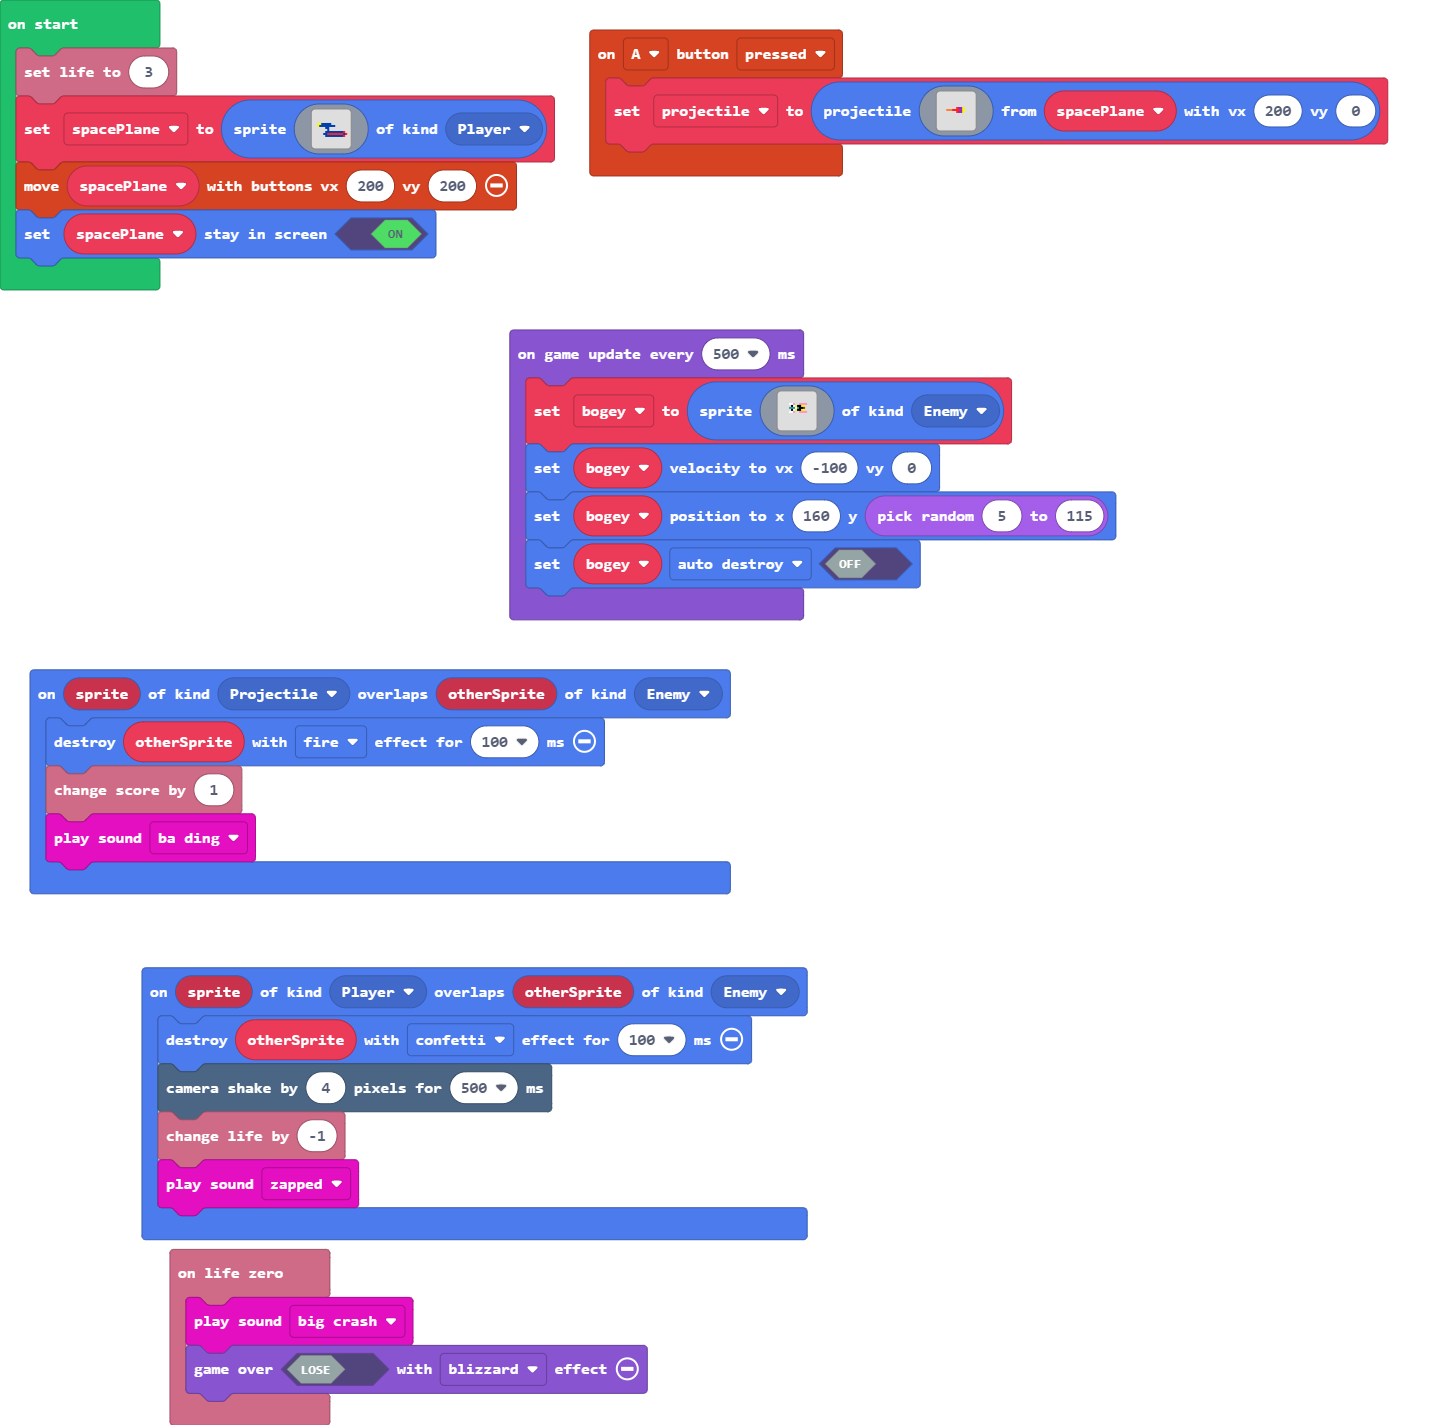
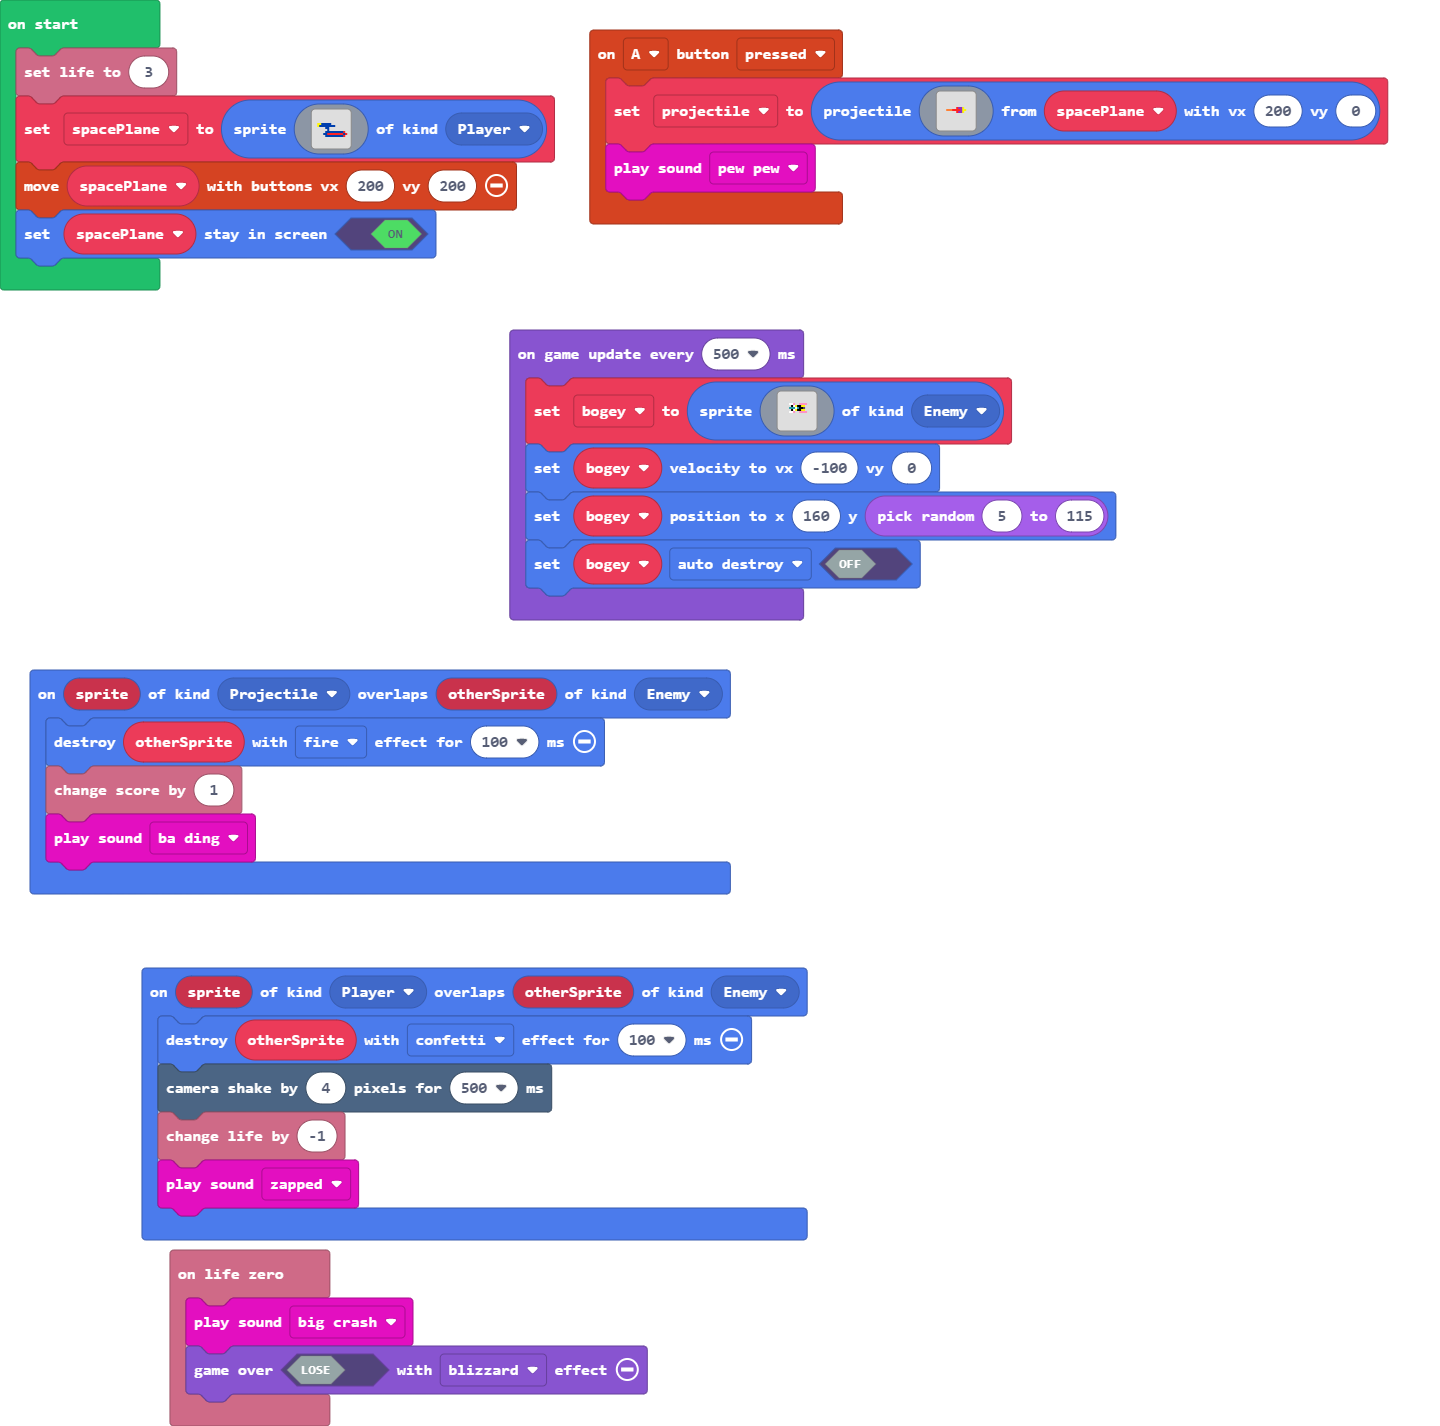
added pew pew

diff --git a/images.g.ts b/images.g.ts
@@ -937,6 +937,60 @@ namespace myImages {
 . . . . . . . . . . . . . . . . 
 . . . . . . . . . . . . . . . . 
 `;
+            case "image34":return img`
+. . . . . . . . . . . . . . . . 
+. . . . . . . . . . . . . . . . 
+. . . . . . . . . . . . . . . . 
+. . . . . . . . . . . . . . . . 
+. . . . 1 1 3 . . 3 3 3 3 . . . 
+. . . . . f 1 5 f f 5 5 . . . . 
+. . . . 6 6 6 1 6 f f c . . . . 
+. . . . . f 1 5 f f 5 5 . . . . 
+. . . . 1 1 3 . . 3 3 3 3 . . . 
+. . . . . . . . . . . . . . . . 
+. . . . . . . . . . . . . . . . 
+. . . . . . . . . . . . . . . . 
+. . . . . . . . . . . . . . . . 
+. . . . . . . . . . . . . . . . 
+. . . . . . . . . . . . . . . . 
+. . . . . . . . . . . . . . . . 
+`;
+            case "image35":return img`
+. . . . . . . . . . . . . . . . 
+. . . . . . . . . . . . . . . . 
+. . . . . . . . . . . . . . . . 
+. . . . . . . . . . . . . . . . 
+. . . . . . . . . . . . . . . . 
+. 5 5 8 8 8 8 8 . . . . . . . . 
+. 5 8 8 8 8 8 8 8 8 . . . . . . 
+. . . . . 8 8 . . . . . . . . . 
+. . . . . . 8 . . . . . . . . . 
+. . . . . 8 8 8 8 8 8 8 8 8 2 . 
+. . . . 8 8 2 2 2 2 2 2 2 2 8 2 
+. . . . . 8 8 8 8 8 8 8 8 8 2 . 
+. . . . . . . . . . . . . . . . 
+. . . . . . . . . . . . . . . . 
+. . . . . . . . . . . . . . . . 
+. . . . . . . . . . . . . . . . 
+`;
+            case "image36":return img`
+. . . . . . . . . . . . . . . . 
+. . . . . . . . . . . . . . . . 
+. . . . . . . . . . . . . . . . 
+. . . . . . . . . . . . . . . . 
+. 5 5 . . . . . . . . . . . . . 
+. 5 5 5 a a a a a a a 3 9 9 . . 
+. 5 5 a 5 a a a a a a a 3 9 9 . 
+. . 5 5 a a a a a a a 3 9 9 . . 
+. 5 5 . . . . . . . . . . . . . 
+. . . . . . . . . . . . . . . . 
+. . . . . . . . . . . . . . . . 
+. . . . . . . . . . . . . . . . 
+. . . . . . . . . . . . . . . . 
+. . . . . . . . . . . . . . . . 
+. . . . . . . . . . . . . . . . 
+. . . . . . . . . . . . . . . . 
+`;
         }
         return null;
     })

diff --git a/main.ts b/main.ts
@@ -1,5 +1,6 @@
 controller.A.onEvent(ControllerButtonEvent.Pressed, function () {
     projectile = sprites.createProjectileFromSprite(assets.image`galgaDart1`, spacePlane, 200, 0)
+    music.pewPew.play()
 })
 info.onLifeZero(function () {
     music.bigCrash.play()
